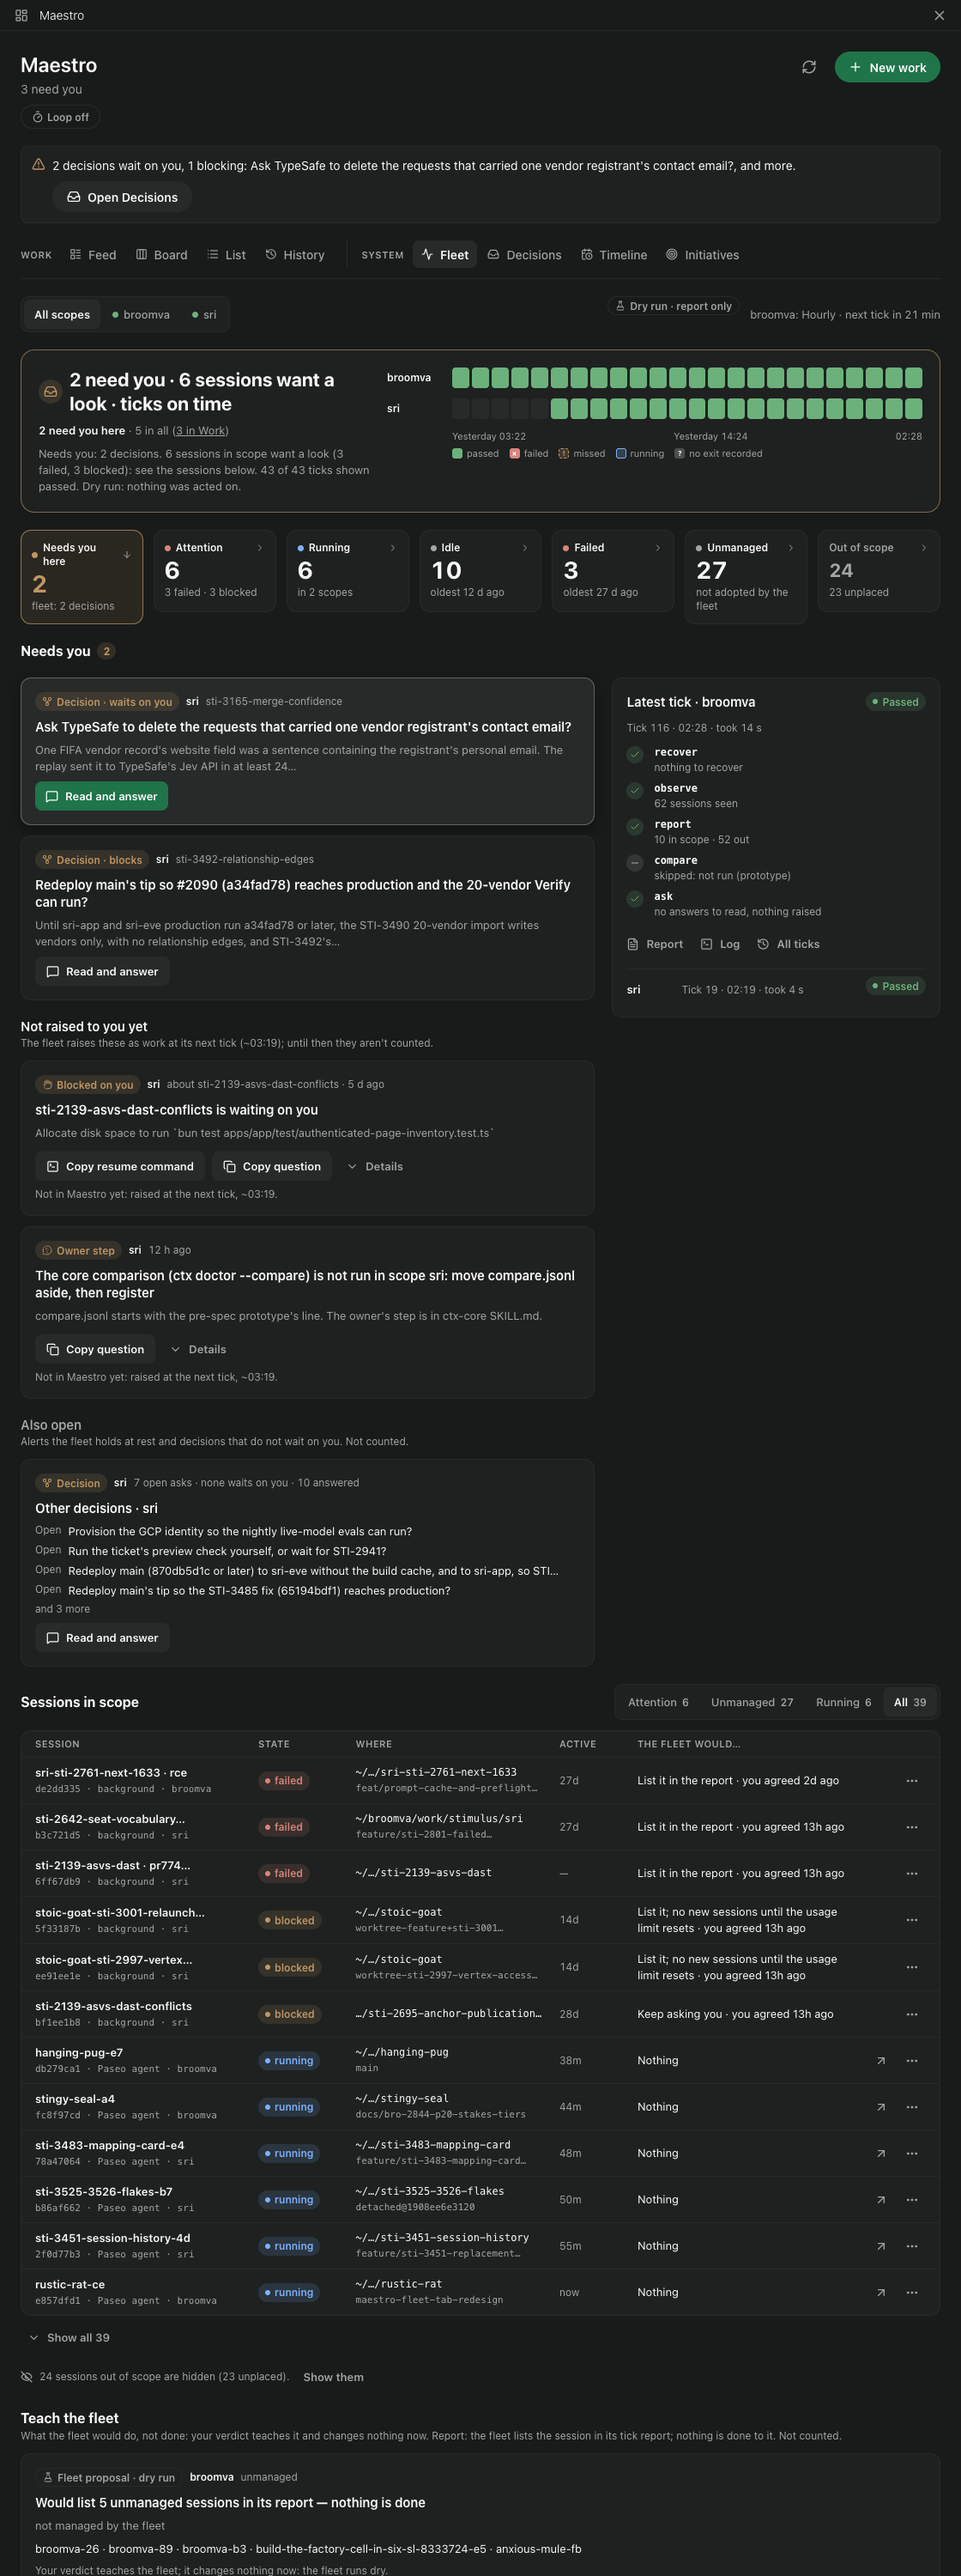
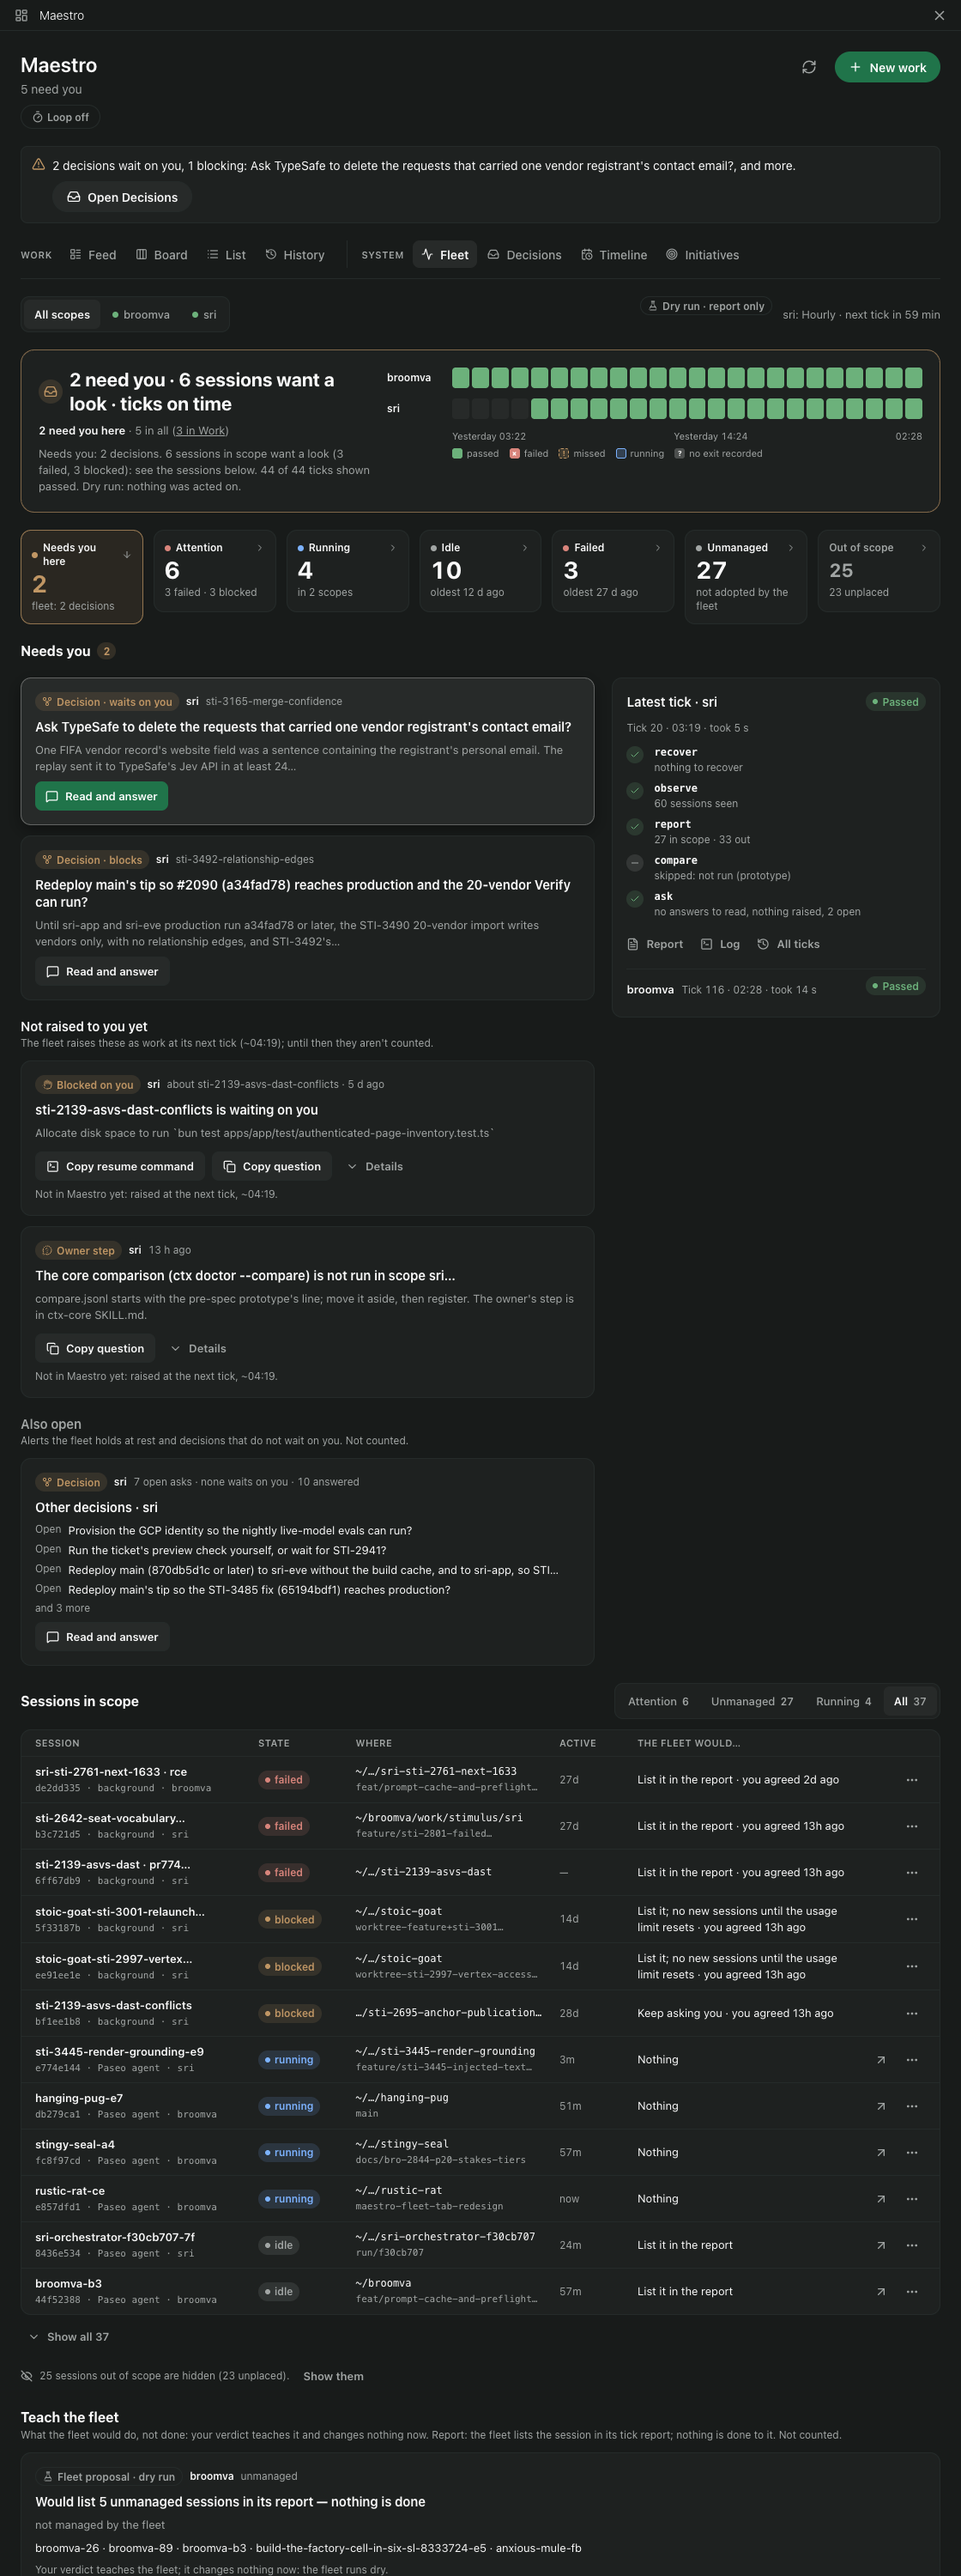
fix(fleet): one Maestro-wide "need you" in the subtitle; never rewrite the fleet's words (BRO-2837)
- The subtitle under Maestro's title reads the header's own count
  (needsYouCount over work.attention, through a shared useAttention), so the
  subtitle, the Paseo header badge and the Fleet band's "in all" are one
  number; "· N running" stays. The agreement test checks the subtitle against
  the band's "in all".
- askLines: the statement-then-request heuristic (the action-verb check and
  the "it" → file-name substitution) is gone. A title is the first sentence,
  or, past the limit, cut at its last clause with "…"; the body is the rest as
  written, never an ellipsis fragment. Its tests follow.
- desktop-dark-all and phone-dark re-captured.

diff --git a/client/fleet-words.ts b/client/fleet-words.ts
@@ -72,41 +72,17 @@ export function askLines(question: string, max = 110): { title: string; body: st
   const first = end ? text.slice(0, end.index + 1) : text;
   const sentence = first.replace(/[.:]$/, "");
   if (sentence.length <= max) return { title: sentence, body: text.slice(first.length).trim() || null };
-  const after = text.slice(first.length).trim();
-  // A sentence starts with a capital, unless it starts with a name (a file, a path, a command) as written.
-  const capital = (part: string) =>
-    /^\S*[./_`]/.test(part) ? part : `${part.charAt(0).toUpperCase()}${part.slice(1)}`;
-  // Too long for a title. A statement then a request (`<what>: <why>; <do this>`): the title keeps the what
-  // and the request, the why goes to the body.
-  const colon = sentence.indexOf(": ");
-  const semi = sentence.lastIndexOf("; ");
-  const request = semi > colon ? sentence.slice(semi + 2) : "";
-  // An imperative last clause is the request: `move it aside, then register`.
-  const asks =
-    /^(move|run|add|set|enable|register|allocate|delete|approve|merge|answer|pick|choose|rerun|reply|open|start|stop|fix|rename|remove|install|update|grant|give|pin|create|re-?run|sign|rotate|review)\b/i.test(
-      request,
-    );
-  if (colon > 0 && semi > colon && asks) {
-    const why = capital(sentence.slice(colon + 2, semi).trim()).replace(/[.;,]?$/, ".");
-    // "move it aside": the request names what "it" is, when the why starts with a name.
-    const name = /^(\S*[./_]\S*)\s/.exec(why)?.[1];
-    const named = name ? request.replace(/\bit\b/, name) : request;
-    const title = `${sentence.slice(0, colon)}: ${named}`;
-    if (title.length <= max) {
-      return { title, body: [why, after].filter(Boolean).join(" ") };
-    }
-  }
-  // Else cut at the last clause (`; `, `, `, `: `) within the limit, else a word; the body goes on from
-  // the cut as a sentence of its own, never an ellipsis fragment.
+  // Too long for a title: cut at the last clause boundary (`; `, `, `, `: `) within the limit, else a
+  // word, with "…". The fleet's words are never rewritten: the body is the rest as written, from the cut,
+  // never an ellipsis fragment.
   const head = sentence.slice(0, max);
   const clause = Math.max(head.lastIndexOf("; "), head.lastIndexOf(", "), head.lastIndexOf(": "));
   const kept = clause > max * 0.4 ? sentence.slice(0, clause) : cutWords(sentence, max).slice(0, -1);
-  const rest = sentence
+  const rest = text
     .slice(kept.length)
     .replace(/^[\s,;:.-]+/, "")
     .trim();
-  const body = [rest ? capital(rest).replace(/[.;,]?$/, ".") : null, after || null].filter(Boolean).join(" ");
-  return { title: `${kept}…`, body: body || null };
+  return { title: `${kept}…`, body: rest || null };
 }
 
 /** An ask's tag, in the owner's words: blocked on you, repo setup, an owner step. */

diff --git a/client/fleet-cockpit-model.test.ts b/client/fleet-cockpit-model.test.ts
@@ -544,7 +544,7 @@ describe("the owner's words", () => {
       50,
     );
     expect(long.title).toBe("Session bf1ee1b8 is blocked on you: job file…");
-    expect(long.body).toBe("Blocked on a question to its user (allocate disk).");
+    expect(long.body).toBe("blocked on a question to its user (allocate disk).");
     expect(askTag({ class: "7", className: "blocked on the owner" })).toBe("Blocked on you");
     expect(askTag({ class: "github", className: null })).toBe("Repo setup");
     expect(askAge({ firstTick: 107 }, [tick(108, 0.5), tick(107, 49)], NOW)).toBe("2 d");
@@ -898,19 +898,18 @@ describe("round 3 words", () => {
     ).toEqual({
       title: "Repo GetStimulus/sri: no pull_request rule; no required status checks…",
       // The body goes on as a sentence of its own: never an ellipsis fragment.
-      body: "Force-push to the default branch not blocked. Its PRs get no driver.",
+      body: "force-push to the default branch not blocked. Its PRs get no driver.",
     });
   });
 
-  test("a statement then a request keeps the request in the title, naming what 'it' is", () => {
+  test("a long first sentence is cut at a clause, never rewritten: the body is the rest as written", () => {
     expect(
       askLines(
         "The core comparison (ctx doctor --compare) is not run in scope sri: compare.jsonl starts with the pre-spec prototype's line; move it aside, then register. The owner's step is in ctx-core SKILL.md.",
       ),
     ).toEqual({
-      title:
-        "The core comparison (ctx doctor --compare) is not run in scope sri: move compare.jsonl aside, then register",
-      body: "compare.jsonl starts with the pre-spec prototype's line. The owner's step is in ctx-core SKILL.md.",
+      title: "The core comparison (ctx doctor --compare) is not run in scope sri…",
+      body: "compare.jsonl starts with the pre-spec prototype's line; move it aside, then register. The owner's step is in ctx-core SKILL.md.",
     });
   });
 

diff --git a/client/plane.tsx b/client/plane.tsx
@@ -23,8 +23,9 @@ import { AskNotices, useDecisionCounts } from "./decisions";
 import { WorkDetail } from "./detail";
 import { FleetNotices, FleetView } from "./fleet";
 import { errorText, plural } from "./format";
+import { needsYouCount } from "./header-count";
 import { HistoryView } from "./history";
-import { useLoop, useWorkList } from "./hooks";
+import { useAttention, useLoop, useWorkList } from "./hooks";
 import { InitiativeNotices, InitiativesView } from "./initiatives";
 import { useIntent } from "./intent";
 import { LoopControl, LoopPanel } from "./loop";
@@ -53,6 +54,17 @@ import { Button, Card, IconButton, Notice, space, useText } from "./ui";
 
 export function MaestroSurface({ theme, layout, navigation }: PluginSurfaceProps) {
   const list = useWorkList();
+  // The header's own count, Maestro-wide: the subtitle says the same number as the badge.
+  const attention = useAttention();
+  const needsYouTotal = attention.data
+    ? needsYouCount(
+        attention.data.waiting,
+        attention.data.fleet,
+        attention.data.timeline,
+        attention.data.asks,
+        attention.data.initiatives,
+      )
+    : null;
   // The same read as the loop control's (one query): whether the loop is on words the Queued hint.
   const loopOn = useLoop().data?.minutes != null;
   const text = useText(theme);
@@ -148,7 +160,7 @@ export function MaestroSurface({ theme, layout, navigation }: PluginSurfaceProps
             <Text style={text.heading} accessibilityRole="header">
               Maestro
             </Text>
-            <Text style={text.muted}>{summaryText(items)}</Text>
+            <Text style={text.muted}>{summaryText(items, needsYouTotal)}</Text>
           </View>
           <IconButton theme={theme} icon="RefreshCw" label="Refresh work" onPress={() => void list.refetch()} />
           <Button

diff --git a/client/fleet.tsx b/client/fleet.tsx
@@ -54,7 +54,7 @@ import { Roster, RosterChips, SessionInspector } from "./fleet-roster";
 import { LatestTick, POLL_MS, TickSheet, type TickSheetState } from "./fleet-ticks";
 import { Pill, ramp, SectionHead, Segmented, Verb } from "./fleet-ui";
 import { errorText, plural } from "./format";
-import { useWorkList } from "./hooks";
+import { useAttention, useWorkList } from "./hooks";
 import { requestIntent } from "./intent";
 import { fleetOriginOf } from "./records-text";
 import { Button, Card, Notice, radius, space, useReducedMotion, useText } from "./ui";
@@ -166,13 +166,8 @@ export function FleetView({
   const reads = useScopeReads(fleet.data, all, fleet.isError && fleet.data ? errorText(fleet.error) : null);
   const reduced = useReducedMotion();
   const workList = useWorkList();
-  // The header's own read (work.attention, one query with FleetNotices): what "N need you" counts everywhere.
-  const readAttention = useRpc(attentionWork);
-  const attention = useQuery({
-    queryKey: ["maestro", "attention"],
-    queryFn: () => readAttention({}),
-    refetchInterval: POLL_MS,
-  });
+  // The header's own read (work.attention): what "N need you" counts everywhere.
+  const attention = useAttention();
   const queueRef = useRef<View>(null);
   const rosterRef = useRef<View>(null);
   const [width, setWidth] = useState(compact ? 390 : 1100);

diff --git a/client/plane-model.ts b/client/plane-model.ts
@@ -257,12 +257,18 @@ export function cardLabel(item: WorkItem, now = Date.now()): string {
  * its section lists it. Stuck and flagged work is in "need you" (as in the
  * header count), and a flagged run is not counted again as running.
  */
-export function summaryText(items: readonly WorkItem[]): string {
-  const needs = needsYouOf(items).length;
+/**
+ * The subtitle: what needs you and what runs. `needsYou` is the header's own
+ * Maestro-wide count (header-count.ts needsYouCount over work.attention), so
+ * the subtitle, the Paseo header badge and the Fleet band's "in all" are one
+ * number; without it (its read not in yet), the work that needs you.
+ */
+export function summaryText(items: readonly WorkItem[], needsYou: number | null = null): string {
+  const needs = needsYou ?? needsYouOf(items).length;
   const running = items.filter((item) => sectionOf(item) === "running").length;
   const parts = [
     needs ? `${needs} ${needs === 1 ? "needs" : "need"} you` : null,
     running ? `${running} running` : null,
   ].filter(Boolean);
-  return parts.join(" · ") || (items.length ? "Nothing needs you" : "No work yet");
+  return parts.join(" · ") || (items.length || needsYou !== null ? "Nothing needs you" : "No work yet");
 }

diff --git a/client/plane.render.test.tsx b/client/plane.render.test.tsx
@@ -2404,6 +2404,8 @@ describe("the Fleet view", () => {
     // The band says both numbers, the rest pressable to its view.
     for (let tries = 0; tries < 100 && !view.text().includes("in all"); tries += 1) await settle(20);
     expect(view.text()).toContain(`${fleetShare} need you here · ${header} in all (${otherWork.length} in Work)`);
+    // The subtitle under Maestro's title says the same Maestro-wide number as the header and the band's "in all".
+    expect(view.text().startsWith(`Maestro${header} need you · `)).toBe(true);
     expect(view.byLabel(`${otherWork.length} in Work: open Work`)).not.toBeNull();
     expect(starting(view, `Needs you here: ${fleetShare}, fleet: 1 tick · 1 ask · 1 decision`)).toBeDefined();
     const section = view.byLabel(`Needs you: ${fleetShare} cards`) as unknown as { children: { length: number } };

diff --git a/client/hooks.ts b/client/hooks.ts
@@ -7,6 +7,7 @@ import { useMutation, useQuery, useQueryClient } from "@tanstack/react-query";
 import { useCallback } from "react";
 import {
   adoptAgent,
+  attentionWork,
   cancelWork,
   createWork,
   decideWork,
@@ -103,4 +104,13 @@ export function useVerbs() {
     saveConfig: useMutation({ mutationFn: rpc.saveConfig, onSettled: refresh }),
     wake: useMutation({ mutationFn: () => rpc.wake({}), onSettled: refresh }),
   };
+}
+
+/**
+ * What the header counts (work.attention): one query for the header's own
+ * pieces, read by the subtitle, the Fleet band and the notices alike.
+ */
+export function useAttention() {
+  const read = useRpc(attentionWork);
+  return useQuery({ queryKey: [...KEY, "attention"], queryFn: () => read({}), refetchInterval: 30_000 });
 }

diff --git a/client/plane-model.test.ts b/client/plane-model.test.ts
@@ -408,5 +408,8 @@ describe("card words", () => {
     expect(summaryText([work("x", "review"), work("y", "review")])).toBe("2 need you");
     expect(summaryText([work("x", "done")])).toBe("Nothing needs you");
     expect(summaryText([])).toBe("No work yet");
+    // With the header's own count, the subtitle says that number: the badge's, Maestro-wide.
+    expect(summaryText(plane, 5)).toBe("5 need you · 1 running");
+    expect(summaryText([], 0)).toBe("Nothing needs you");
   });
 });

diff --git a/README.md b/README.md
@@ -358,7 +358,7 @@ Top to bottom:
   carries), and a decision ask in the fleet's own root that waits on you (`waiting`: blocking, or
   recommending what cannot be undone). Sessions that want a look are named beside it (*6 sessions
   want a look*), never in it: the header does not count them. The band says how it relates to the
-  header's own count, from the header's pieces (needsYouCount over work.attention): *2 need you here
+  header's own count (the subtitle under Maestro's title reads the same Maestro-wide number), from the header's pieces (needsYouCount over work.attention): *2 need you here
   · 5 in all (3 in Work)*, each other surface pressable to its view.
 - **The health band.** A verdict that leads with the problem and never overclaims. It is *healthy*
   only when every scope was read, ticks on time, nothing needs you and no session wants a look.
@@ -383,9 +383,9 @@ Top to bottom:
   *Open <session>* in Paseo, else *Copy resume command* (`cd '<cwd>' && claude --resume <uuid>`:
   the folder always single-quoted, a leading `~/` as `"$HOME"`, a canonical UUID only). Answering
   the raised work and *Copy question* follow. A title keeps the request: a blocked-session ask
-  reads *<session> is waiting on you* with the request as its body; a long first sentence is cut at
-  a clause (a statement then a request keeps the request: *…not run in scope sri: move compare.jsonl
-  aside, then register*), the body going on as a sentence of its own. Then, apart and uncounted,
+  reads *<session> is waiting on you* with the request as its body; the fleet's words are never
+  rewritten: a long first sentence is cut at its last clause before the limit, with "…", and the
+  body is the rest as written, never an ellipsis fragment. Then, apart and uncounted,
   **Not raised to you yet**: asks the fleet raises as work at its next tick (*~21:18*), with their
   tags and verbs; and **Also open**: alerts at rest and the scope's decisions that do not wait on
   you (answered ones stay findable). *Latest tick* shows the
